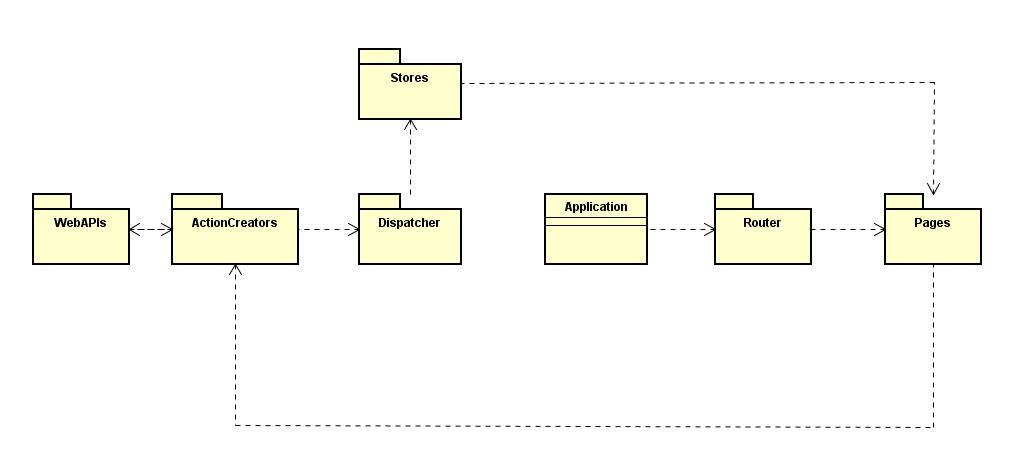
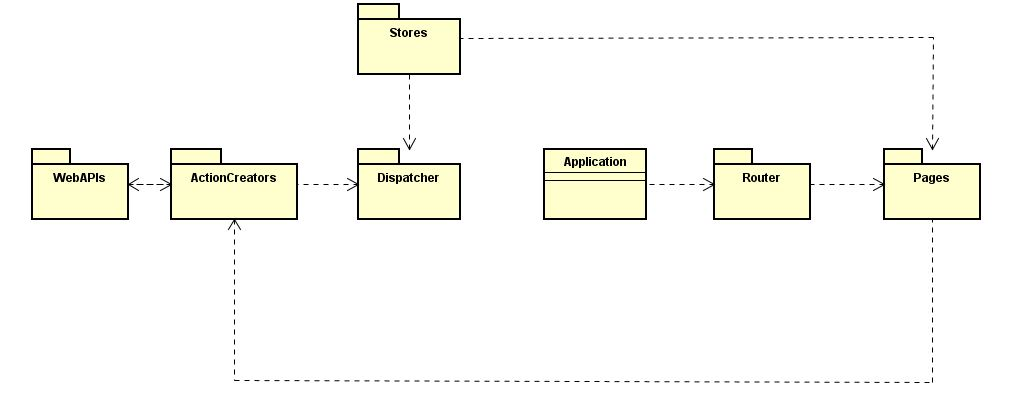
Returned with the previous version of frontend and fixed the pic

diff --git a/official/SpecificaTecnica/res/sections/frontend.tex b/official/SpecificaTecnica/res/sections/frontend.tex
@@ -27,8 +27,6 @@ Dall'architettura sopra descritta sono stati individuati i seguenti \glossaryIte
 \caption{Diagramma dei \glossaryItem{package} del frontend}
 \end{figure}
 
-Come si può notare dal diagramma, è presente una dipendenza circolare tra le componenti del sistema. Tuttavia questa dipendenza non comporta problemi al funzionamento: il Dispatcher funge da cardine per questo sistema, registrando da una parte i tipi di Action che possono circolare nel sistema stesso e fornendo agli Store i metodi necessari per poter instradare correttamente le varie Action. L'utilizzo di questi oggetti per la comunicazione infatti rende possibile l'esistenza indipendente tra Store e ActionCreator.
-
 \subsection{WebAPIs}
 
 \begin{figure}[h]
